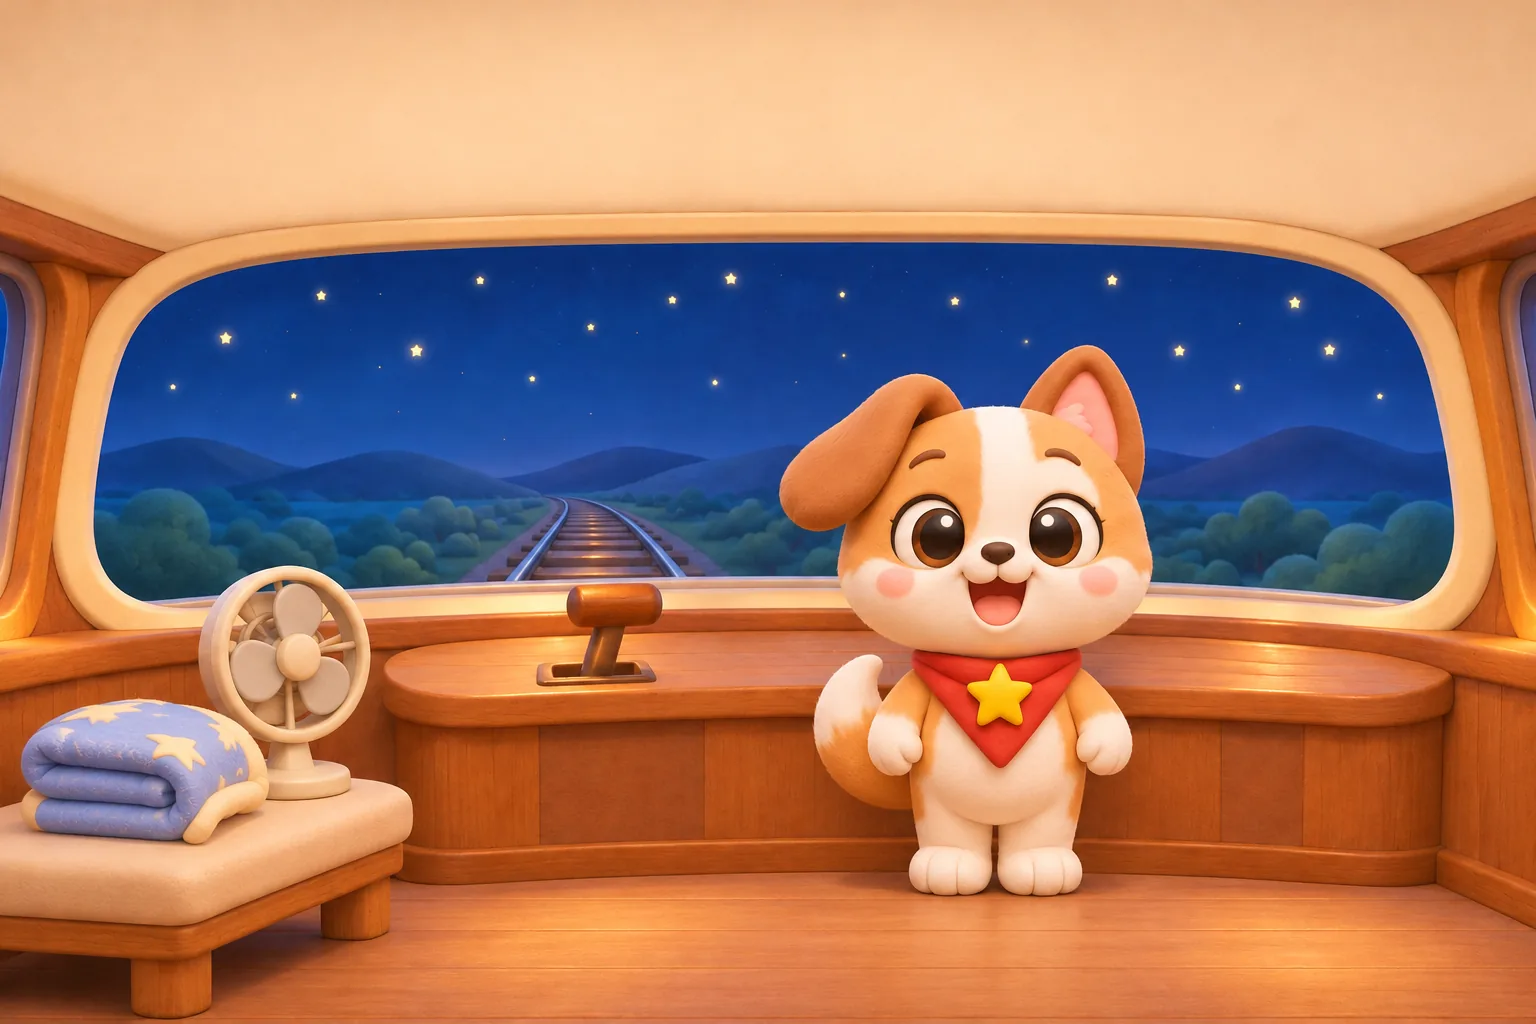
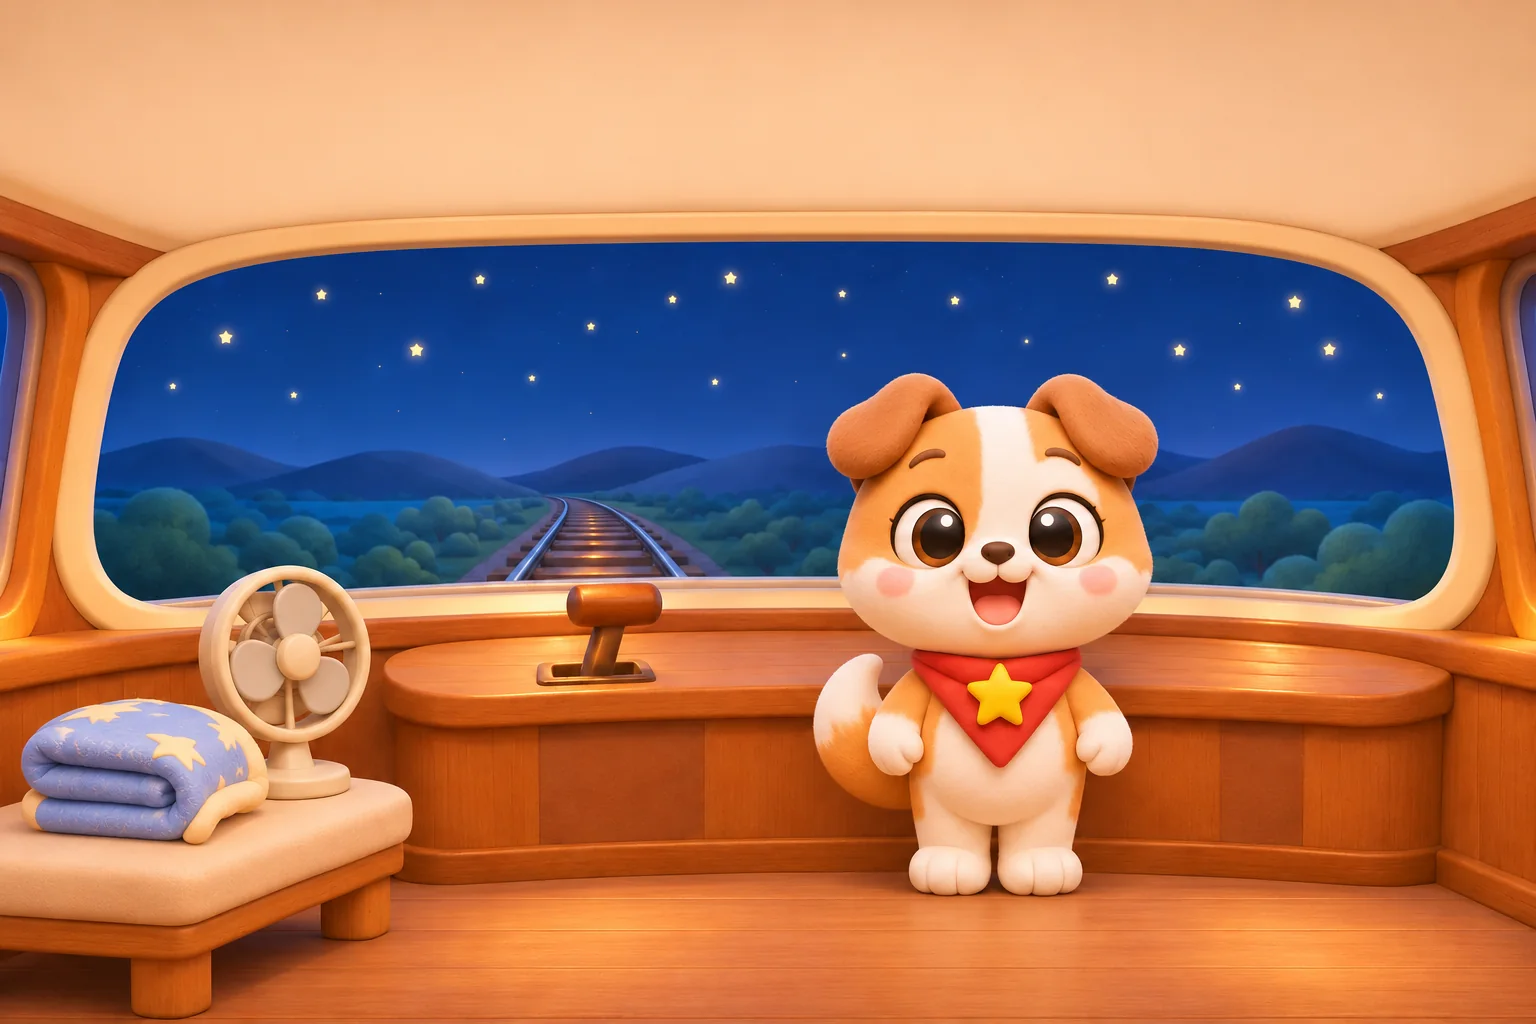
반테 양쪽 귀 대칭 수정 에셋 반영, 캐릭터별 엔딩 9종 적용 및 구버전 에셋 정리

diff --git a/car/app/src/main/java/kr/escape/car/MainActivity.kt b/car/app/src/main/java/kr/escape/car/MainActivity.kt
@@ -772,7 +772,7 @@ private fun KidStage(game: Game, ui: GameUi, book: Book, speaking: Boolean, view
         Phase.INTRO -> (ui.story?.title ?: "별빛 기차가 고장 났대!") to theme
         Phase.PLAYING -> p?.let { ui.scene(it).let { s -> s.bubble to (s.pictures.firstOrNull() ?: theme) } } ?: ("" to theme)
         Phase.SOLVED -> "정답! 별 하나 획득!" to (story?.picture("cover") ?: successPicture(p))
-        Phase.TREASURE -> "탐험 배지 획득!" to (story?.picture("ending") ?: "badge_explorer")
+        Phase.TREASURE -> "탐험 배지 획득!" to "ending_${buddy.name.lowercase()}"
         Phase.RESTORE -> when {
             ui.restoring -> "차를 처음처럼 정리하는 중!"
             ui.restoreTried -> "정리 끝! 다음에 또 만나"

diff --git a/car/app/src/main/java/kr/escape/car/story/Story.kt b/car/app/src/main/java/kr/escape/car/story/Story.kt
@@ -49,7 +49,7 @@ data class Story(
     val scenes: Map<String, Words>,
     /** The day's world in one line ("공룡이 사는 화산섬"); empty for older stories. */
     val world: String = "",
-    /** Picture name ("cover", "p1".., "ending") -> the server path, and after [StoryRepo] downloads it, a local file. */
+    /** Picture name ("cover", "p1"..) -> the server path, and after [StoryRepo] downloads it, a local file. */
     val images: Map<String, String> = emptyMap(),
     /** Answer key -> its puzzle's picture name, also for a scene the server dropped (its words are the app's own). */
     val scenePictures: Map<String, String> = emptyMap(),

diff --git a/car/app/src/main/java/kr/escape/car/story/Lines.kt b/car/app/src/main/java/kr/escape/car/story/Lines.kt
@@ -197,7 +197,7 @@ object Lines {
             else -> "scene_dust_ok"
         }
         Puzzle.BeltMission -> "scene_belt_ok"
-        null -> "badge_explorer"
+        null -> "ending_bante"
     }
 
     // ------------------------------------------------------------ the app's own questions

diff --git a/server/app/models.py b/server/app/models.py
@@ -164,7 +164,6 @@ class Art(BaseModel):
 
     cover: str
     puzzles: list[str]
-    ending: str
 
 
 class Draft(BaseModel):
@@ -215,9 +214,8 @@ DRAFT_SCHEMA = {
             "properties": {
                 "cover": _text("오늘의 모험 표지 그림 설명 1~2문장"),
                 "puzzles": {"type": "array", "items": _text("퍼즐 순서대로 한 장씩, 곤란한 친구와 장소 설명 1~2문장")},
-                "ending": _text("목표를 이룬 마지막 장면 그림 설명 1~2문장"),
             },
-            "required": ["cover", "puzzles", "ending"],
+            "required": ["cover", "puzzles"],
             "additionalProperties": False,
         },
     },
@@ -238,7 +236,7 @@ class Episode(BaseModel):
     scenes: dict[str, SceneText]
     dropped: list[str] = []
     world: str = ""
-    # picture name -> path on this server ("cover", "p1".."p6", "ending"); empty when nothing was drawn
+    # picture name -> path on this server ("cover", "p1".."p6"); empty when nothing was drawn
     images: dict[str, str] = {}
     # answer key -> its puzzle's picture name, also for a key whose words were dropped (it plays the app's own lines)
     pictures: dict[str, str] = {}

diff --git a/server/app/service.py b/server/app/service.py
@@ -100,8 +100,8 @@ def repair(req: EpisodeRequest, writer: Writer, ep: Episode, bad: set[str], pick
 
 
 def paint_pictures(ep: Episode, draft: Draft, req: EpisodeRequest, painter: Painter, folder: Path) -> Episode:
-    """Draw the cover, one picture per puzzle and the ending, side by side. A picture that is refused or fails is left
-    out and the app shows its own picture there."""
+    """Draw the cover and one picture per puzzle, side by side. A picture that is refused or fails is left out and the
+    app shows its own picture there."""
     wanted: dict[str, str] = {}
     art = draft.art
     skip = art_problems(draft, req)
@@ -109,7 +109,6 @@ def paint_pictures(ep: Episode, draft: Draft, req: EpisodeRequest, painter: Pain
         log.info("pictures not drawn: %s", skip)
     if art is not None:
         wanted["cover"] = art.cover
-        wanted["ending"] = art.ending
         for i, text in enumerate(art.puzzles[: len(req.puzzles)], start=1):
             # an image model adds steam to a soup pot unasked, so what would give an answer away is also forbidden here
             avoid = sorted({w for key in req.puzzles[i - 1] if quiz.parse(key) is None for w in rule_for(key).art_never})

diff --git a/server/app/checker.py b/server/app/checker.py
@@ -129,10 +129,10 @@ def answer_words(slot: list[str]) -> list[str]:
 
 
 def art_problems(draft: Draft, req: EpisodeRequest) -> dict[str, list[str]]:
-    """Problems per picture name ("cover", "p1".., "ending"); a picture with problems is simply not drawn."""
+    """Problems per picture name ("cover", "p1"..); a picture with problems is simply not drawn."""
     art = draft.art
     if art is None:
-        return {"cover": ["설명 없음"], "ending": ["설명 없음"], **{f"p{i}": ["설명 없음"] for i in range(1, len(req.puzzles) + 1)}}
+        return {"cover": ["설명 없음"], **{f"p{i}": ["설명 없음"] for i in range(1, len(req.puzzles) + 1)}}
     out: dict[str, list[str]] = {}
 
     def look(name: str, text: str, extra: list[str]) -> None:
@@ -143,7 +143,6 @@ def art_problems(draft: Draft, req: EpisodeRequest) -> dict[str, list[str]]:
             out[name] = problems
 
     look("cover", art.cover, [])
-    look("ending", art.ending, [])
     for i, slot in enumerate(req.puzzles, start=1):
         text = art.puzzles[i - 1] if i <= len(art.puzzles) else ""
         look(f"p{i}", text, answer_words(slot))

diff --git a/server/tests/test_wish_and_pictures.py b/server/tests/test_wish_and_pictures.py
@@ -24,7 +24,6 @@ KEYS = [MATH, REASON, "BELT"]
 ART = Art(
     cover="공룡 섬에 도착한 반테가 활짝 웃는다",
     puzzles=["반테가 멈춘 바람개비 옆에서 사과 바구니를 든다", "반테가 모래 언덕 위에서 뿌연 유리를 바라본다", "탐험대장 자리 옆에서 반테가 손짓한다"],
-    ending="반테가 보물을 찾고 활짝 웃는다",
 )
 
 
@@ -101,7 +100,7 @@ def test_pictures_are_drawn_served_and_tied_to_their_scenes(tmp_path):
     painter = FakePainter()
     c = client(tmp_path, FakeWriter(draft(KEYS, art=ART, world="공룡 섬")), painter)
     ep = c.post("/v1/episode", json={**BODY, "wish": "공룡 섬에서 보물찾기", "pictures": True}).json()
-    assert set(ep["images"]) == {"cover", "p1", "p2", "p3", "ending"} and len(painter.calls) == 5
+    assert set(ep["images"]) == {"cover", "p1", "p2", "p3"} and len(painter.calls) == 4
     assert ep["world"] == "공룡 섬"
     assert ep["pictures"] == {MATH: "p1", REASON: "p2", "BELT": "p3"}
     assert ep["scenes"][MATH]["picture"] == "p1" and ep["scenes"][REASON]["picture"] == "p2"

diff --git a/server/tools/dev_server.py b/server/tools/dev_server.py
@@ -139,7 +139,7 @@ class TemplateWriter:
             intro=f"[개발용] 나는 {friend}야. 서버에서 받은 이야기야.",
             treasureBadge="[개발용] 배지 받았어!",
             scenes=scenes,
-            art=Art(cover=f"{world} 표지", puzzles=[f"{world} 퍼즐 {_SLOT_NAMES[i]}" for i in range(slots)], ending=f"{world} 마지막"),
+            art=Art(cover=f"{world} 표지", puzzles=[f"{world} 퍼즐 {_SLOT_NAMES[i]}" for i in range(slots)]),
         )
         return draft, "dev-template"
 
@@ -154,7 +154,7 @@ class CardPainter:
         time.sleep(float(os.environ.get("DEV_PAINT_SECONDS", "1.5")))
         found = re.search(f"퍼즐 ([{_SLOT_NAMES}])", description)
         n = _SLOT_NAMES.index(found.group(1)) + 1 if found else 0
-        return self._card((1536, 1024), self.COLORS[n % len(self.COLORS)], f"DEV PICTURE {'cover/ending' if n == 0 else n}")
+        return self._card((1536, 1024), self.COLORS[n % len(self.COLORS)], f"DEV PICTURE {'cover' if n == 0 else n}")
 
     @staticmethod
     def _card(size: tuple[int, int], color, label: str) -> bytes:

diff --git a/server/tests/test_checker.py b/server/tests/test_checker.py
@@ -129,8 +129,7 @@ def test_the_banks_hint_is_not_held_to_one_way():
 def test_a_situation_picture_shows_the_trouble_but_no_button():
     req = request([[MATH], [REASON], ["BELT"]])
     d = filled(req.keys)
-    d.art = Art(cover="별빛 기차 앞의 루미", puzzles=["새싹 로봇", "펭귄 선장이 뿌연 앞 유리 앞에서 입김을 분다", "탐험대장 자리"],
-                ending="모두 함께 웃는다")
+    d.art = Art(cover="별빛 기차 앞의 반테", puzzles=["새싹 로봇", "펭귄 선장이 뿌연 앞 유리 앞에서 입김을 분다", "탐험대장 자리"])
     # a situation has no number to give away, so its trouble may be drawn
     assert art_problems(d, req) == {}
     d.art = d.art.model_copy(update={"puzzles": ["새싹 로봇", "펭귄 선장이 성에 낀 앞 유리를 본다", "탐험대장 자리"]})

diff --git a/server/tests/test_dev_tools.py b/server/tests/test_dev_tools.py
@@ -88,7 +88,7 @@ def test_the_dev_server_answers_the_car(tmp_path, monkeypatch):
     assert ep["model"] == "dev-template" and ep["dropped"] == [] and "이오" in ep["intro"]
     assert ep["scenes"]["Q:MATH:FAN:3"]["question"]["expr"] == "1+2"
     assert ep["scenes"]["Q:REASON:AC:0"]["question"]["kind"] == "REASON"
-    assert set(ep["images"]) == {"cover", "p1", "p2", "p3", "ending"}
+    assert set(ep["images"]) == {"cover", "p1", "p2", "p3"}
     assert ep["scenes"]["Q:MATH:FAN:3"]["result"]
 
 
